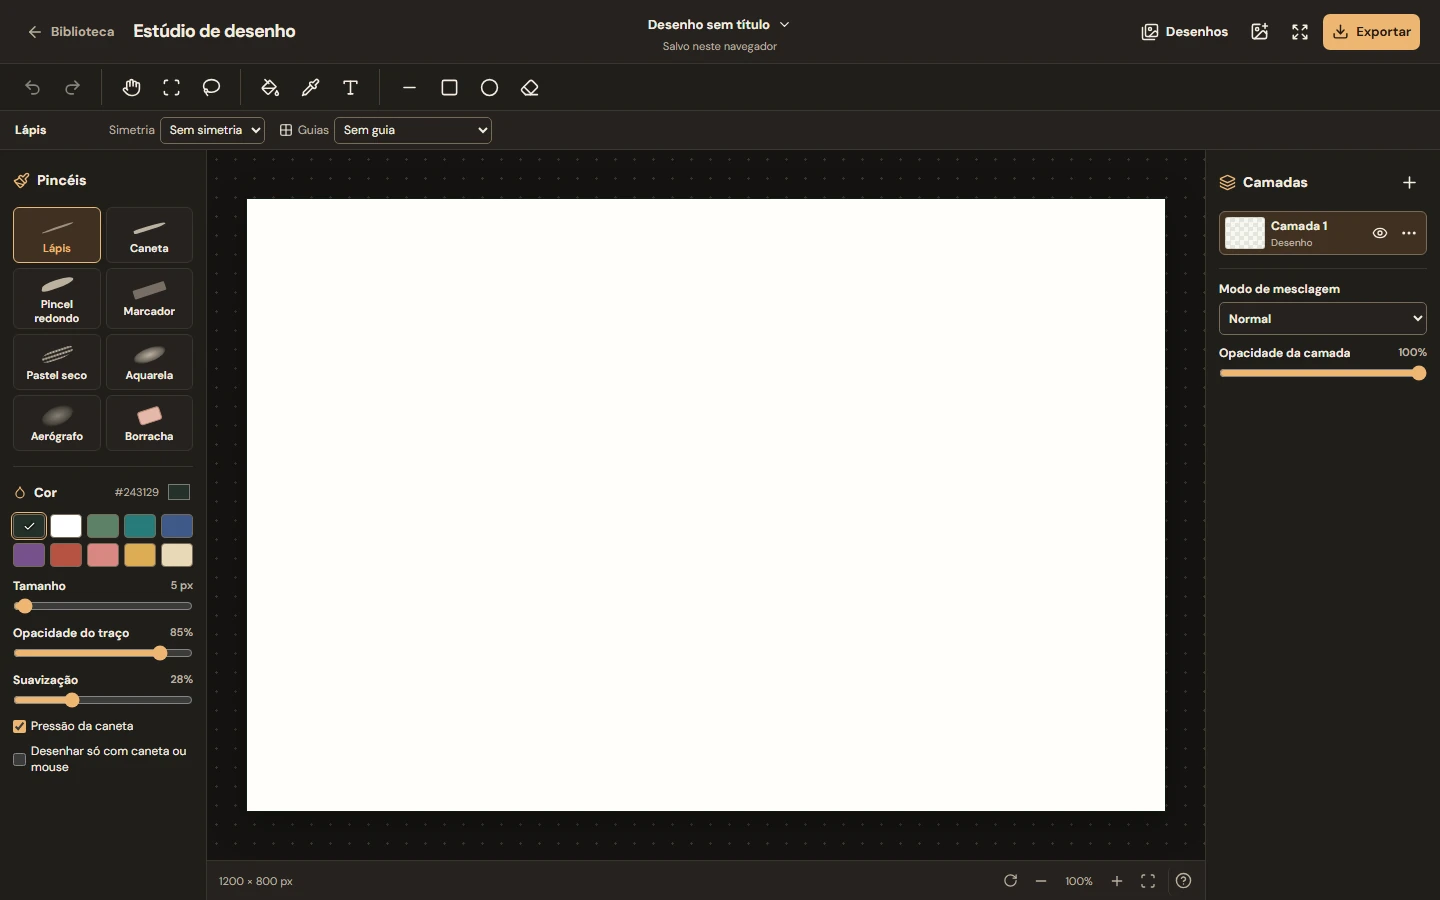
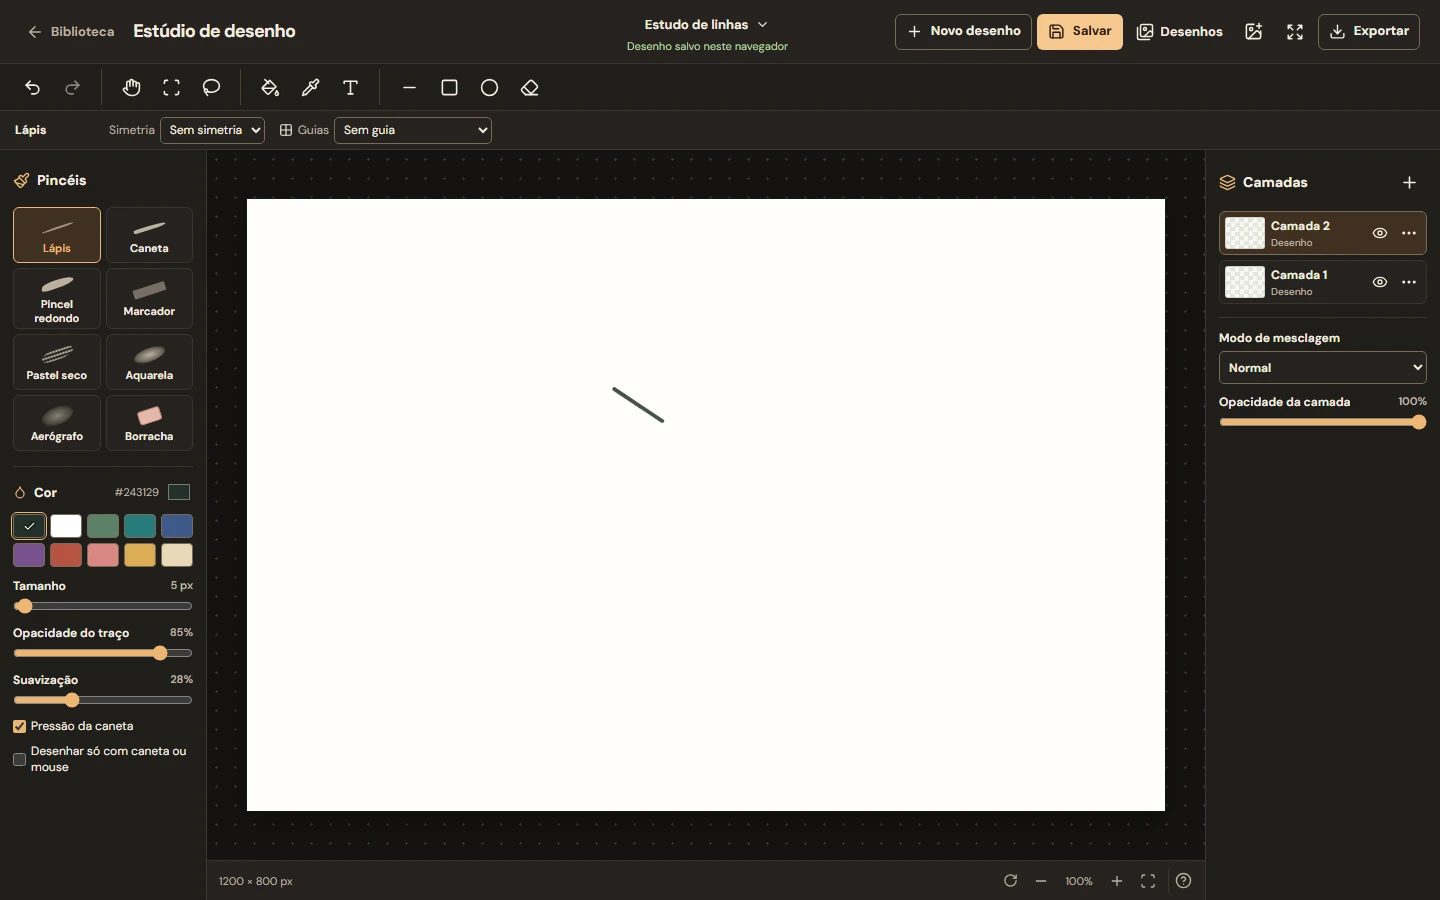
feat: adicionar ações de salvar e criar desenhos

diff --git a/src/sketch.css b/src/sketch.css
@@ -15,7 +15,7 @@
 
 .studio-header {
   display: grid;
-  grid-template-columns: minmax(0, 1fr) minmax(0, 1fr) minmax(0, 1fr);
+  grid-template-columns: minmax(0, 1fr) minmax(0, .7fr) minmax(max-content, 1fr);
   align-items: center;
   min-height: 64px;
   padding: 8px 20px;
@@ -24,13 +24,13 @@
   background: var(--surface);
   z-index: 9;
 }
-.studio-brand, .studio-header-actions, .studio-return, .studio-name, .studio-gallery-button, .studio-export {
+.studio-brand, .studio-header-actions, .studio-return, .studio-name, .studio-gallery-button {
   display: flex;
   align-items: center;
 }
 .studio-brand { gap: 13px; min-width: 0; }
 .studio-brand h1 { margin: 0; font-size: 18px; font-weight: 690; line-height: 1.1; letter-spacing: -.035em; }
-.studio-return, .studio-gallery-button, .studio-name, .studio-export {
+.studio-return, .studio-gallery-button, .studio-name {
   border: 0;
   border-radius: 7px;
   white-space: nowrap;
@@ -48,10 +48,10 @@
 .studio-name span { overflow: hidden; text-overflow: ellipsis; }
 .studio-storage { display: block; min-height: 14px; font-size: 11px; color: var(--muted); }
 .studio-storage[data-status="error"] { color: var(--danger); }
+.studio-storage[data-status="confirmed"] { color: var(--success); }
 .studio-header-actions { justify-content: flex-end; gap: 5px; }
+.studio-header-actions .button { min-height: 36px; padding-inline: 10px; }
 .studio-gallery-button { padding-inline: 8px; }
-.studio-export { background: var(--accent-fill); color: var(--on-accent); min-height: 36px; }
-.studio-export:hover:not(:disabled) { background: var(--accent-strong); }
 
 .studio-toolbar {
   display: flex;
@@ -289,9 +289,30 @@
   .studio-panel { padding-inline: 10px; }
 }
 
+@media (max-width: 960px) {
+  .studio-header-actions .studio-gallery-button, .studio-header-actions .studio-export { width: 36px; padding: 0; justify-content: center; }
+  .studio-gallery-button > span, .studio-export > span { display: none; }
+}
+
 @media (max-width: 760px) {
   .studio-app { --studio-viewbar-height: 51px; }
   .studio-zoom .icon-button { width: 44px; height: 44px; }
+  .studio-header {
+    grid-template-columns: repeat(2, minmax(0, 1fr));
+    min-height: auto;
+    padding: 6px 8px;
+    gap: 4px 6px;
+  }
+  .studio-brand { gap: 3px; }
+  .studio-brand h1 { font-size: 16px; }
+  .studio-return { min-width: 26px; padding: 0 3px; }
+  .studio-document { justify-self: end; min-width: 0; width: 100%; text-align: right; }
+  .studio-name { margin-right: 0; padding-inline: 0; min-height: 28px; font-size: 12px; }
+  .studio-storage { font-size: 10px; line-height: 1.15; }
+  .studio-header-actions { grid-column: 1 / -1; justify-content: flex-start; gap: 4px; }
+  .studio-header-actions .button { min-height: 44px; padding-inline: 8px; }
+  .studio-header-actions .icon-button, .studio-header-actions .studio-gallery-button, .studio-header-actions .studio-export { width: 44px; height: 44px; padding: 0; }
+  .studio-gallery-button { margin-left: auto; }
   .studio-toolbar { padding-inline: 7px; gap: 3px 6px; flex-wrap: wrap; }
   .studio-toolbar-group { gap: 2px; }
   .studio-toolbar-group + .studio-toolbar-group { padding-left: 6px; }
@@ -322,23 +343,7 @@
 }
 
 @media (max-width: 520px) {
-  .studio-header {
-    grid-template-columns: minmax(0, 1fr) auto;
-    grid-template-rows: auto auto;
-    min-height: auto;
-    padding: 4px 6px 6px;
-    gap: 0;
-  }
-  .studio-brand h1 { font-size: 16px; white-space: nowrap; }
-  .studio-document { grid-row: 2; grid-column: 1 / -1; width: 100%; display: flex; justify-content: space-between; align-items: center; gap: 5px; padding: 0 5px 0 27px; }
-  .studio-document .menu-anchor { min-width: 0; max-width: 63%; }
-  .studio-name { min-height: 28px; padding-inline: 3px; font-size: 12px; }
-  .studio-storage { font-size: 10px; line-height: 1.15; text-align: right; }
-  .studio-header-actions { gap: 0; }
-  .studio-header-actions .icon-button, .studio-gallery-button, .studio-export { width: 36px; min-height: 42px; min-width: 0; padding: 0; justify-content: center; }
-  .studio-gallery-button span, .studio-export span { display: none; }
-  .studio-return { min-width: 26px; padding: 0 3px; }
-  .studio-brand { gap: 1px; }
+  .studio-new-suffix { display: none; }
   .studio-current { min-width: 0; max-width: 86px; overflow: hidden; text-overflow: ellipsis; white-space: nowrap; }
   .studio-context select { max-width: 126px; }
   .studio-viewbar { padding-inline: 7px 3px; }
@@ -348,7 +353,8 @@
 
 @media (max-width: 360px) {
   .studio-brand h1 { font-size: 15px; }
-  .studio-header-actions .icon-button, .studio-gallery-button, .studio-export { width: 34px; }
+  .studio-header-actions { gap: 2px; }
+  .studio-new > svg, .studio-save > svg { display: none; }
 }
 
 

diff --git a/src/SketchEditor.jsx b/src/SketchEditor.jsx
@@ -1,5 +1,5 @@
 import { useEffect, useMemo, useReducer, useRef, useState } from 'react'
-import { ArrowLeft, ChevronDown, Download, Expand, ImagePlus, Images, Minimize2, Pencil, Square } from 'lucide-react'
+import { ArrowLeft, ChevronDown, Download, Expand, ImagePlus, Images, Minimize2, Pencil, Plus, Save, Square } from 'lucide-react'
 import { IconButton, Menu, MenuOption } from './ui'
 import { SketchCanvas } from './SketchCanvas'
 import { DrawingHelp, DrawingNameForm, DrawingTextForm } from './SketchDialogs'
@@ -8,9 +8,14 @@ import { bounds, brushes, clamp, drawingFrame, editHistory, newLayer, numberedLa
 import { bitmap, captureRegion, encode, imageLayer } from './sketch-raster'
 import { studioRenderer } from './sketch-render'
 
-const storageLabels = { saved: 'Salvo neste navegador', saving: 'Salvando…', error: 'O navegador não salvou as alterações' }
+const storageLabels = {
+  saved: 'Salvo neste navegador',
+  confirmed: 'Desenho salvo neste navegador',
+  saving: 'Salvando…',
+  error: 'O navegador não salvou as alterações',
+}
 
-export function SketchEditor({ initial, leave, save, storage, gallery, clipboard, externalDialog }) {
+export function SketchEditor({ initial, leave, save, storage, newDrawing, gallery, clipboard, externalDialog }) {
   const [history, edit] = useReducer(editHistory, { drawing: initial, past: [], future: [] })
   const { drawing } = history
   const [tool, setTool] = useState('pencil')
@@ -174,6 +179,11 @@ export function SketchEditor({ initial, leave, save, storage, gallery, clipboard
         setSelection(null)
         return
       }
+      if ((event.ctrlKey || event.metaKey) && key === 's' && !event.altKey && !event.shiftKey) {
+        event.preventDefault()
+        if (!busy && !event.repeat) save(drawing, true)
+        return
+      }
       if (event.target.closest('input, textarea, select, [contenteditable]')) return
       if ((event.ctrlKey || event.metaKey) && (key === 'z' || key === 'y')) {
         event.preventDefault()
@@ -282,12 +292,18 @@ export function SketchEditor({ initial, leave, save, storage, gallery, clipboard
         <span className="studio-storage" role="status" data-status={storage}>{storageLabels[storage]}</span>
       </div>
       <div className="studio-header-actions">
-        <button type="button" className="studio-gallery-button" aria-label="Meus desenhos" onClick={gallery}><Images size={18} /><span>Desenhos</span></button>
+        <button type="button" className="button secondary studio-new" aria-label="Novo desenho" aria-haspopup="dialog" disabled={busy} onClick={newDrawing}>
+          <Plus size={17} /><span>Novo<span className="studio-new-suffix"> desenho</span></span>
+        </button>
+        <button type="button" className="button primary studio-save" aria-label="Salvar desenho" aria-keyshortcuts="Control+S Meta+S" disabled={busy} onClick={() => save(drawing, true)}>
+          <Save size={17} />Salvar
+        </button>
+        <button type="button" className="studio-gallery-button" aria-label="Meus desenhos" aria-haspopup="dialog" title="Meus desenhos" disabled={busy} onClick={gallery}><Images size={18} /><span>Desenhos</span></button>
         <IconButton label="Importar imagem" disabled={busy} onClick={() => input.current.click()}><ImagePlus size={19} /></IconButton>
         <input ref={input} type="file" hidden accept="image/*" onChange={importImage} />
         <IconButton label={focused ? 'Mostrar ferramentas' : 'Modo foco'} aria-pressed={focused}
           onClick={() => { setFocused(!focused); setPanel(null) }}>{focused ? <Minimize2 size={18} /> : <Expand size={18} />}</IconButton>
-        <Menu label="Exportar desenho" trigger={(props) => <button {...props} type="button" disabled={busy} className="studio-export"><Download size={17} /><span>Exportar</span></button>}>
+        <Menu label="Exportar desenho" trigger={(props) => <button {...props} type="button" title="Exportar desenho" disabled={busy} className="button secondary studio-export"><Download size={17} /><span>Exportar</span></button>}>
           <MenuOption onClick={() => exportImage('png')}>Baixar PNG</MenuOption>
           <MenuOption onClick={() => exportImage('transparent')}>Baixar PNG transparente</MenuOption>
           <MenuOption onClick={() => exportImage('jpeg')}>Baixar JPEG</MenuOption>

diff --git a/src/SketchStudio.jsx b/src/SketchStudio.jsx
@@ -14,13 +14,13 @@ export default function SketchStudio({ leave }) {
   const [storage, setStorage] = useState('loading')
   const [dialog, setDialog] = useState(null)
 
-  const save = useCallback((next) => {
+  const save = useCallback((next, manual = false) => {
     current.current = next
     setStudio(next)
     if (!canStore.current) return
     setStorage('saving')
     writeStudio(next).then(() => {
-      if (current.current === next) setStorage('saved')
+      if (current.current === next) setStorage(manual ? 'confirmed' : 'saved')
     }).catch(() => {
       if (current.current === next) setStorage('error')
     })
@@ -44,11 +44,11 @@ export default function SketchStudio({ leave }) {
     return () => { open = false }
   }, [save])
 
-  const saveDrawing = useCallback((drawing) => {
+  const saveDrawing = useCallback((drawing, manual = false) => {
     const prev = current.current
     const existing = prev.drawings.find((entry) => entry.id === drawing.id)
-    if (!existing || existing === drawing) return
-    save({ ...prev, drawings: prev.drawings.map((entry) => entry.id === drawing.id ? drawing : entry) })
+    if (!existing || (!manual && existing === drawing)) return
+    save({ ...prev, drawings: prev.drawings.map((entry) => entry.id === drawing.id ? drawing : entry) }, manual)
   }, [save])
 
   function open(id) {
@@ -74,10 +74,10 @@ export default function SketchStudio({ leave }) {
   const drawing = studio.drawings.find((entry) => entry.id === studio.active) ?? studio.drawings[0]
   return <div className="studio-app">
     <SketchEditor key={drawing.id} initial={drawing} leave={leave} save={saveDrawing} storage={storage} clipboard={clipboard}
-      gallery={() => setDialog({ type: 'gallery' })} externalDialog={Boolean(dialog)} />
+      newDrawing={() => setDialog({ type: 'new' })} gallery={() => setDialog({ type: 'gallery' })} externalDialog={Boolean(dialog)} />
     {dialog?.type === 'gallery' && <DrawingGallery drawings={studio.drawings} current={drawing.id} open={open}
-      create={() => setDialog({ type: 'new' })} remove={(target) => setDialog({ type: 'remove', target })} close={() => setDialog(null)} />}
-    {dialog?.type === 'new' && <DrawingNameForm title="Novo desenho" create submit={create} close={() => setDialog({ type: 'gallery' })} />}
+      create={() => setDialog({ type: 'new', fromGallery: true })} remove={(target) => setDialog({ type: 'remove', target })} close={() => setDialog(null)} />}
+    {dialog?.type === 'new' && <DrawingNameForm title="Novo desenho" create submit={create} close={() => setDialog(dialog.fromGallery ? { type: 'gallery' } : null)} />}
     {dialog?.type === 'remove' && <Dialog title="Excluir desenho?" close={() => setDialog({ type: 'gallery' })}>
       <p>Excluir “{dialog.target.name}” da galeria deste navegador?</p>
       <div className="dialog-actions">

diff --git a/src/SketchDialogs.jsx b/src/SketchDialogs.jsx
@@ -68,6 +68,7 @@ export function DrawingHelp({ close }) {
       <div><dt>Seleção / laço / texto</dt><dd><kbd>M</kbd> <kbd>L</kbd> <kbd>T</kbd></dd></div>
       <div><dt>Mover a tela</dt><dd><kbd>H</kbd> ou segure <kbd>Espaço</kbd></dd></div>
       <div><dt>Desfazer / refazer</dt><dd><kbd>Ctrl+Z</kbd> <kbd>Ctrl+Shift+Z</kbd></dd></div>
+      <div><dt>Salvar desenho</dt><dd><kbd>Ctrl+S</kbd> ou <kbd>⌘+S</kbd></dd></div>
       <div><dt>Zoom</dt><dd>Roda do mouse ou pinça</dd></div>
       <div><dt>Girar e mover a tela ao toque</dt><dd>Use dois dedos</dd></div>
       <div><dt>Mover uma seleção</dt><dd>Arraste de dentro dela</dd></div>

diff --git a/README.md b/README.md
@@ -16,7 +16,7 @@
 
 - **Organizar a biblioteca.** Crie cadernos, notas de texto, quadros e pastas. Encontre documentos pela busca ou pelo tipo de arquivo e alterne entre grade e lista.
 - **Escrever e anotar.** Escolha papel pautado, quadriculado, pontilhado ou em branco. Escreva à mão, marque trechos de um PDF e adicione textos, figuras ou gravações de áudio aos documentos.
-- **Desenhar em camadas.** Trabalhe com pincéis, simetria e guias no estúdio de desenho. Exporte em PNG, PNG transparente ou JPEG.
+- **Desenhar em camadas.** Use **Novo desenho** e **Salvar** na barra do estúdio. Reabra trabalhos editáveis em **Desenhos** ou exporte em PNG, PNG transparente ou JPEG.
 - **Levar uma cópia.** Importe PDF, TXT ou uma cópia JSON do Linha Clara. Exporte um documento em PDF ou baixe a biblioteca em um arquivo JSON editável.
 
 ![Biblioteca do Linha Clara no tema escuro, com busca, filtros, favoritos, pastas e capas de documentos.](docs/media/biblioteca.webp)
@@ -28,7 +28,7 @@ O tema escuro destaca o papel e as ferramentas ativas. O seletor da biblioteca a
 
 ![Editor de texto com uma nota de leitura aberta em uma folha clara.](docs/media/editor.webp)
 
-![Estúdio de desenho com pincéis à esquerda, tela ao centro e camadas à direita.](docs/media/estudio.webp)
+![Estúdio de desenho com Novo desenho e Salvar na barra superior, pincéis à esquerda e camadas à direita.](docs/media/estudio.webp)
 
 <p align="center">
   <img src="docs/media/celular.webp" width="360" alt="Biblioteca no celular com botão Novo, busca e filtros acima das capas." />

diff --git a/DESIGN.md b/DESIGN.md
@@ -185,7 +185,7 @@ Instrument Serif tem peso 400 e itálico autêntico. DM Sans Variable sustenta o
 
 - **Biblioteca.** Barra lateral fixa na rolagem, barra superior e conteúdo central limitado a 1320px. Busca, filtro por tipo de arquivo e ordenação antecedem a coleção. A navegação vira gaveta sobreposta até 820px. A grade passa de três colunas para duas até 550px, com busca em linha própria e espaço para títulos em duas linhas.
 - **Editores.** Cabeçalho e rodapé delimitam a área de trabalho. As ferramentas ficam junto ao documento em uma faixa horizontal rolável. O painel de páginas vira sobreposição até 700px.
-- **Estúdio de desenho.** O palco flexível fica entre pincéis e camadas. Até 760px, os painéis abrem sobre o palco e as ferramentas se agrupam em linhas. Até 520px, o nome do arquivo e seu estado ocupam uma segunda linha no cabeçalho.
+- **Estúdio de desenho.** O palco flexível fica entre pincéis e camadas. Até 760px, os painéis abrem sobre o palco, as ferramentas se agrupam em linhas e as ações de criar e salvar ficam na segunda linha do cabeçalho.
 - **Abertura.** Composição em duas colunas com texto e fotografia em moldura fina. Até 720px, a fotografia vira uma faixa horizontal abaixo das ações.
 
 ## Elevation & Depth
